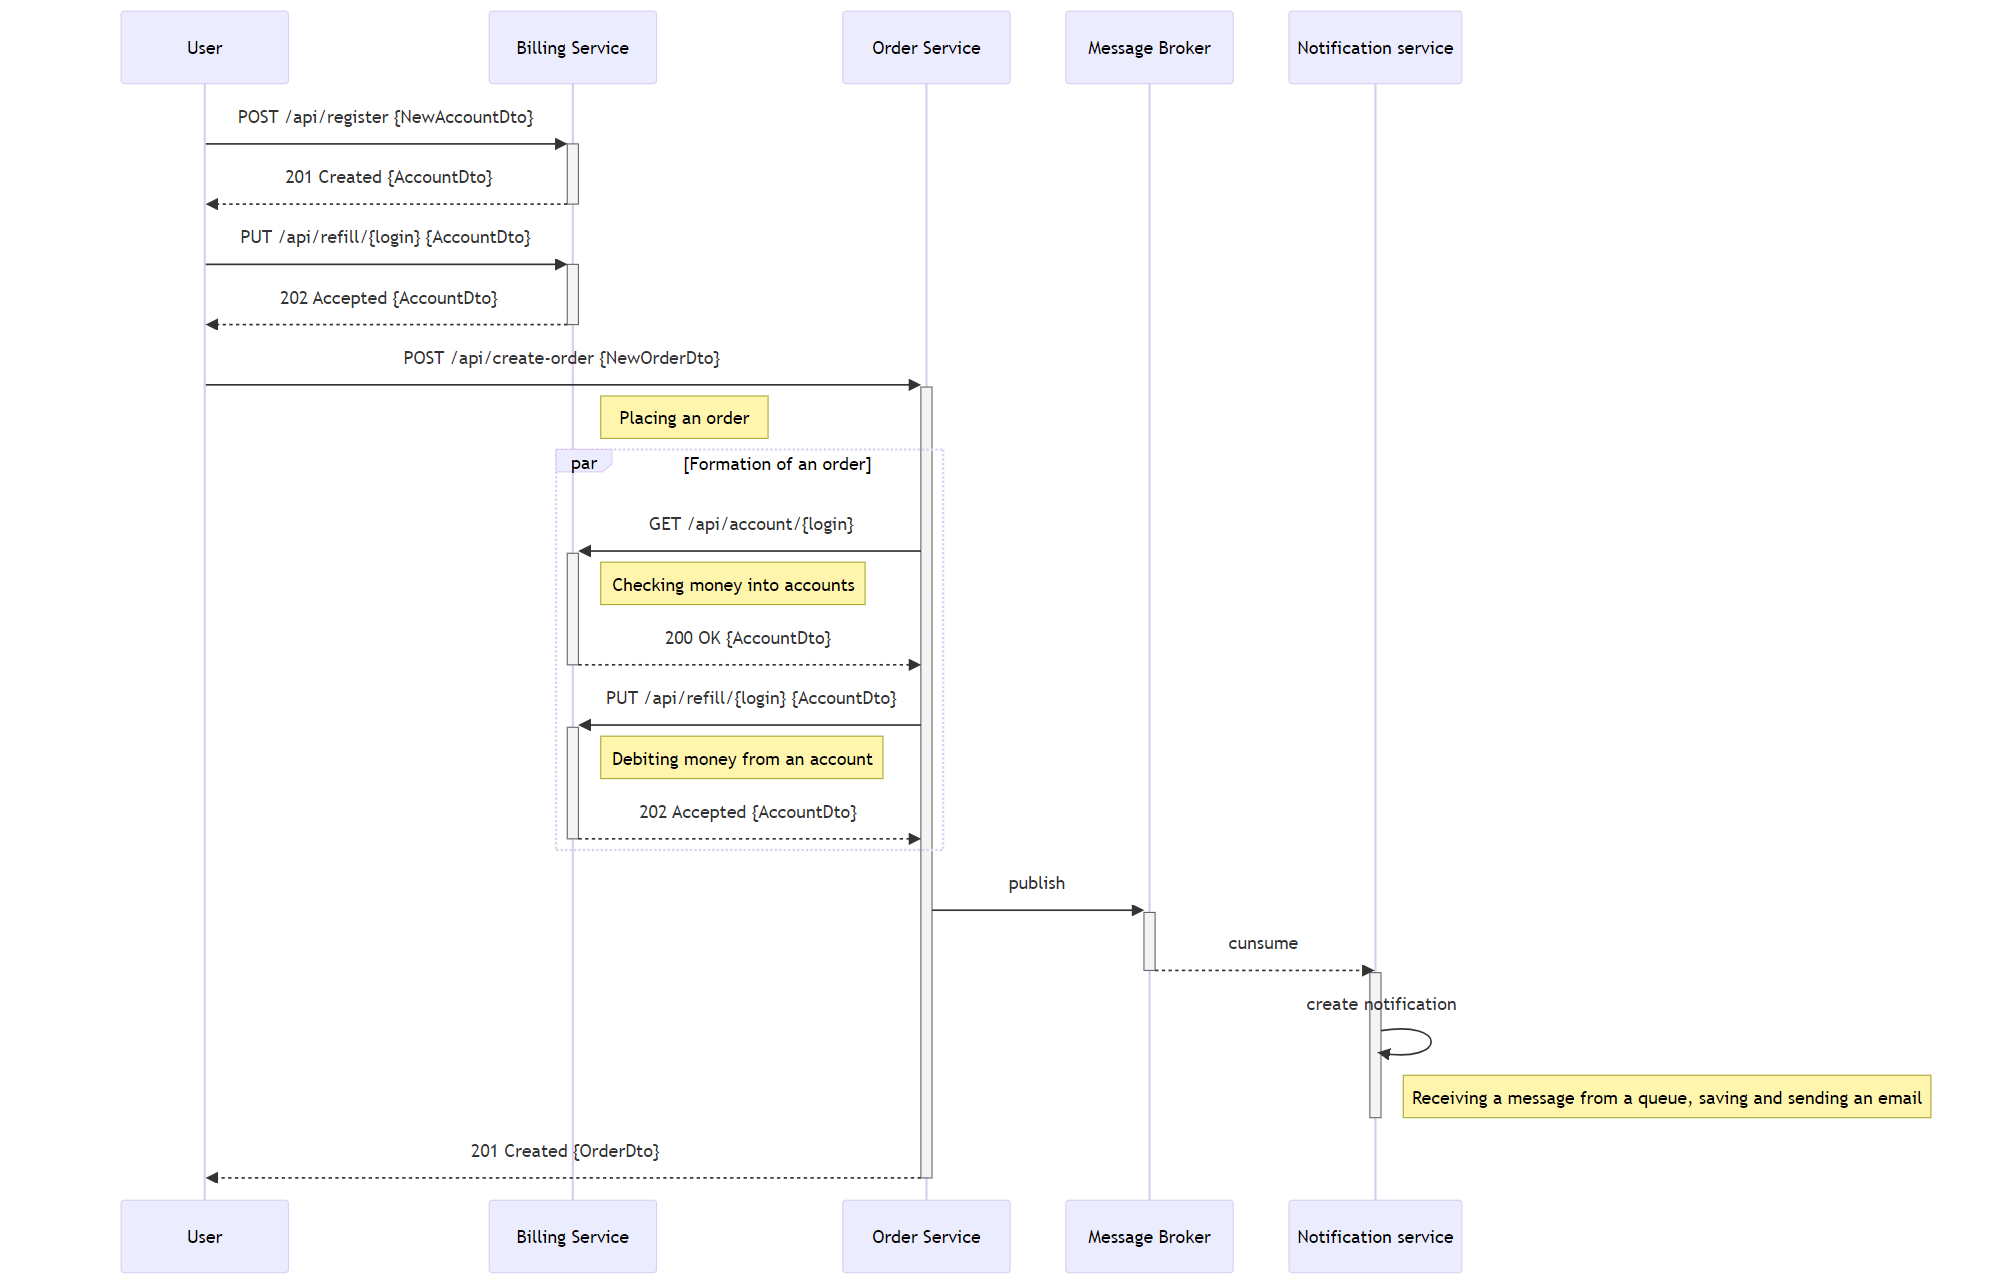
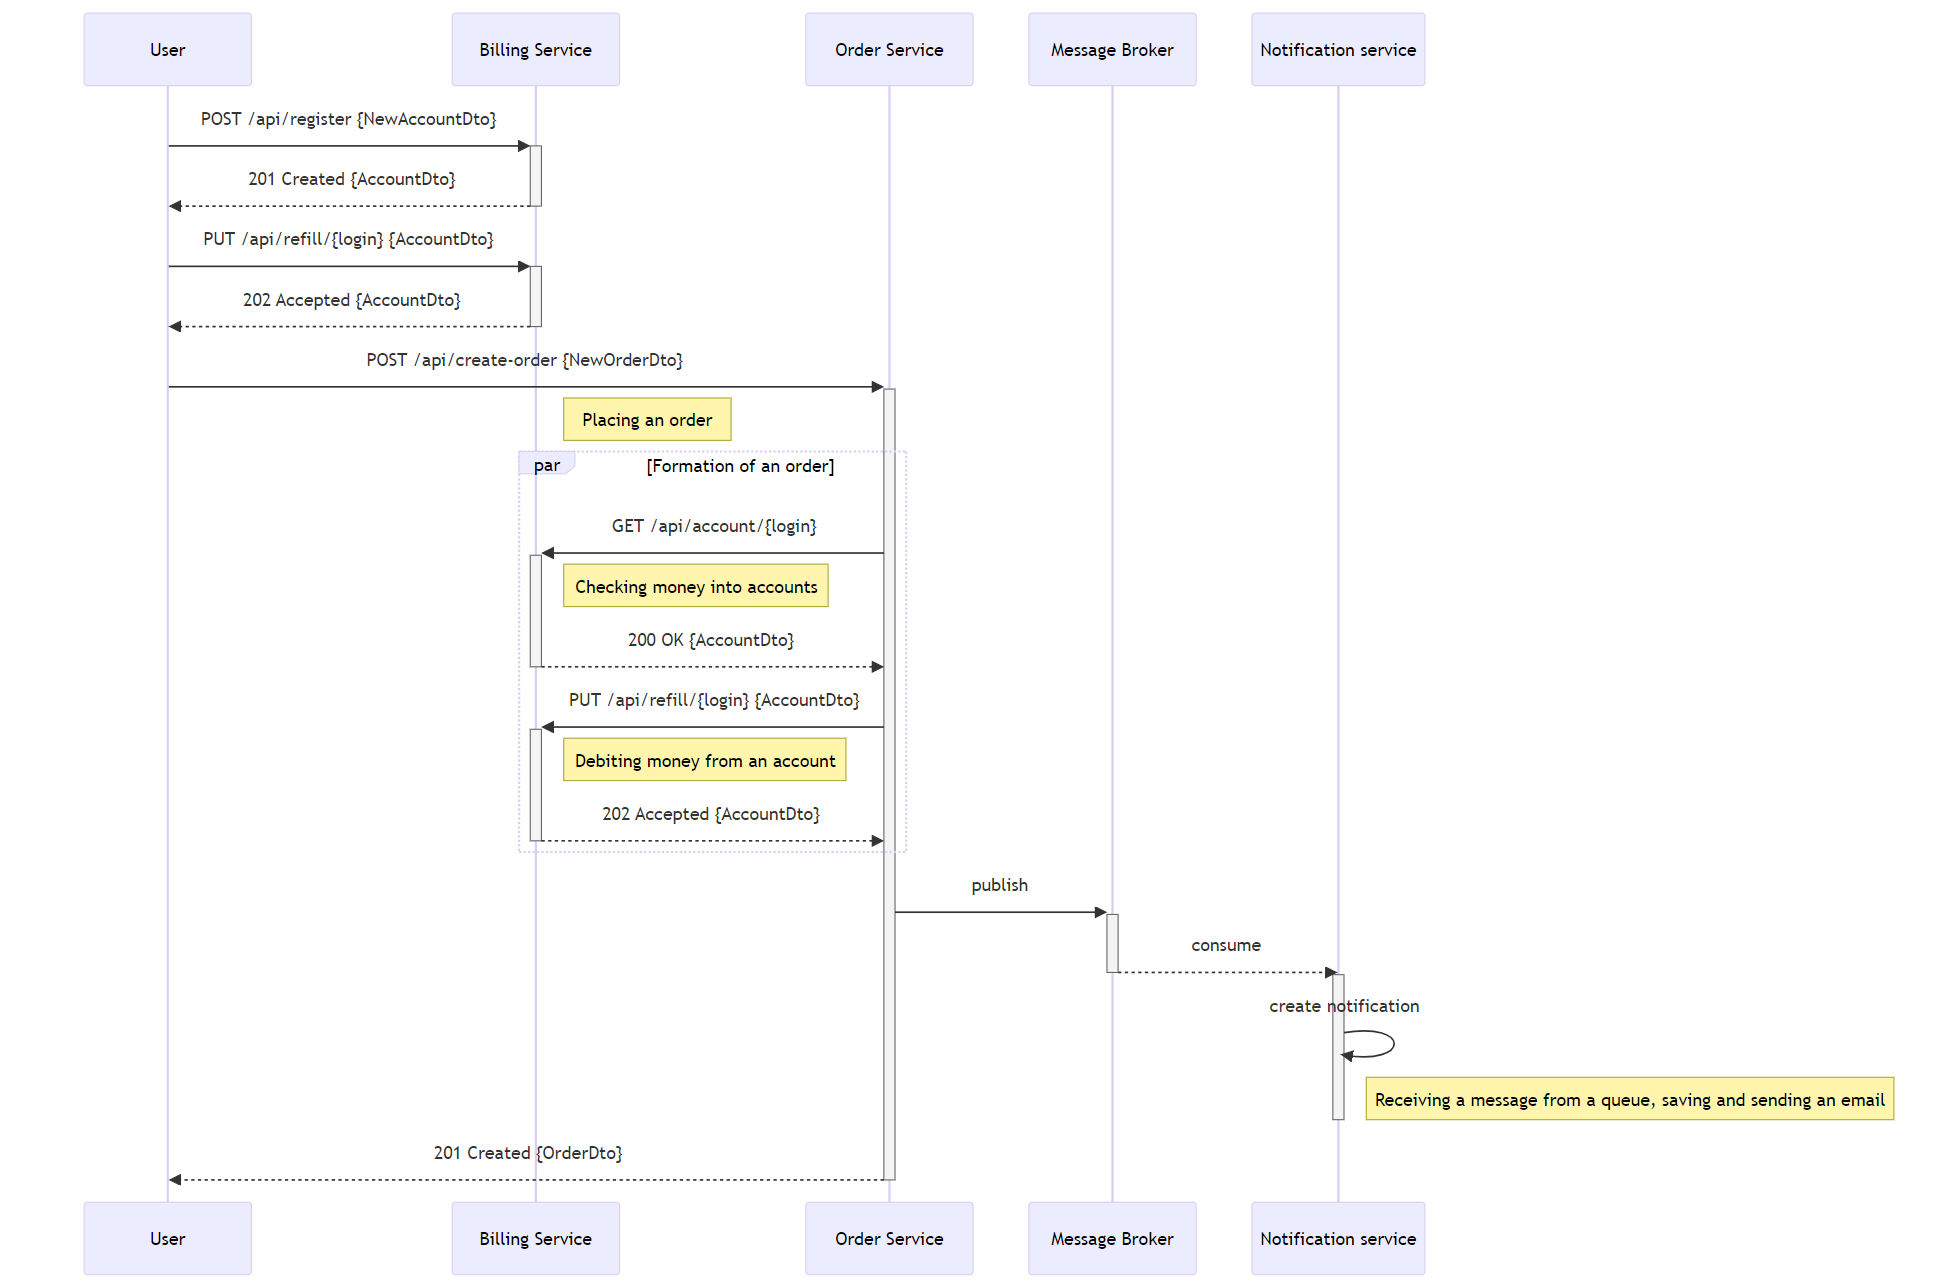
[hw07]: вся ТЕОРЕТИЧЕСКАЯ ЧАСТЬ

diff --git a/hw07/README.assets/event-collaboration-sequence.md b/hw07/README.assets/event-collaboration-sequence.md
@@ -1,0 +1,68 @@
+sequenceDiagram
+participant User
+participant Gateway
+participant Message Broker
+participant Billing Service
+participant Order Service
+participant Message Broker
+participant Notification service
+    User->>+Gateway: POST /api/register {NewAccountDto}
+    Gateway->>-Message Broker: publish
+    activate Message Broker
+    Note right of Message Broker: User registration
+    Message Broker-->>Billing Service: consume
+    deactivate Message Broker
+    activate Billing Service
+    Note right of Message Broker: User is registered
+    Billing Service->>Message Broker: publish
+    deactivate Billing Service
+    activate Message Broker
+    Message Broker-->>Gateway: consume
+    deactivate Message Broker
+    activate Gateway
+    Gateway-->>User: 201 Created {AccountDto}
+    deactivate Gateway
+    User->>+Gateway: PUT /api/refill/{login} {AccountDto}
+    Gateway->>-Message Broker: publish
+    activate Message Broker
+    Note right of Message Broker: Top up user account
+    Message Broker-->>Billing Service: consume
+    deactivate Message Broker
+    activate Billing Service
+    Note right of Message Broker: Account replenished
+    Billing Service->>Message Broker: publish
+    deactivate Billing Service
+    activate Message Broker
+    Message Broker-->>Gateway: consume
+    deactivate Message Broker
+    activate Gateway
+    Gateway-->>User: 202 Accepted {AccountDto}
+    deactivate Gateway
+    User->>+Gateway: POST /api/create-order {NewOrderDto}
+    Gateway->>-Message Broker: publish
+    activate Message Broker
+        Message Broker-->>+Order Service: consume
+        Note right of Message Broker: Placing an order
+        Order Service->>-Message Broker: publish
+        Message Broker-->>+Billing Service: consume
+        Note right of Message Broker: Checking money into accounts
+        Billing Service->>-Message Broker: publish
+        Message Broker-->>+Order Service: consume
+        Order Service->>-Message Broker: publish
+        Message Broker-->>+Billing Service: consume
+        Note right of Message Broker: Debiting money from an account
+        Billing Service->>-Message Broker: publish
+        Message Broker-->>+Order Service: consume
+        Note right of Message Broker: Creating an order after debiting money
+        Order Service->>-Message Broker: publish
+        Message Broker-->>Gateway: consume
+        activate Gateway
+        Gateway-->>User: 201 Created {OrderDto}
+        deactivate Gateway
+        Message Broker-->>Notification service: consume
+    deactivate Message Broker
+    activate Notification service
+    Note right of Message Broker: Create notification
+    Notification service->>Notification service: create notification
+    Note right of Notification service: Receiving a message from a queue, saving and sending an email
+    deactivate Notification service

diff --git a/hw07/README.assets/event-notifications-sequence.md b/hw07/README.assets/event-notifications-sequence.md
@@ -19,7 +19,7 @@ sequenceDiagram
     Billing Service-->>-Order Service: 202 Accepted {AccountDto}
     end
     Order Service->>+Message Broker: publish
-    Message Broker-->>-Notification service: cunsume
+    Message Broker-->>-Notification service: consume
     activate Notification service
     Notification service->>Notification service: create notification
     Note right of Notification service: Receiving a message from a queue, saving and sending an email

diff --git a/hw07/README.md b/hw07/README.md
@@ -23,3 +23,5 @@
 ![event-notifications-drawio](README.assets/event-notifications-drawio.png)
 
 ## Event Collaboration
+### Sequence диаграмма:
+![event-collaboration-mermaid-diagram](README.assets/event-collaboration-mermaid-diagram.png)
